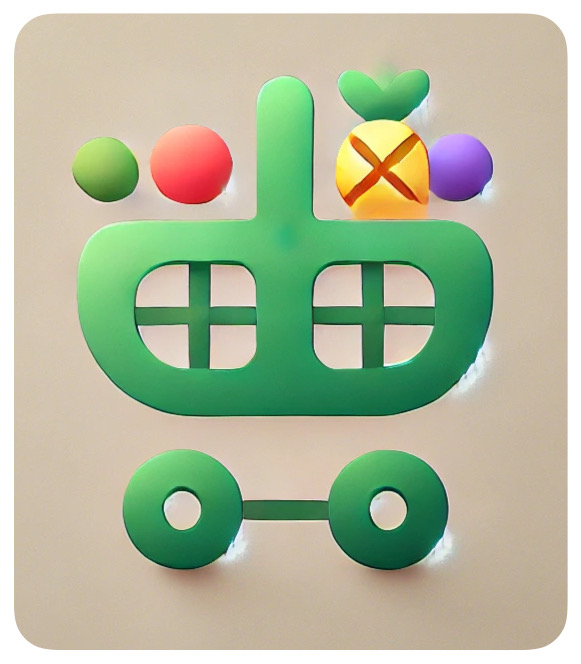
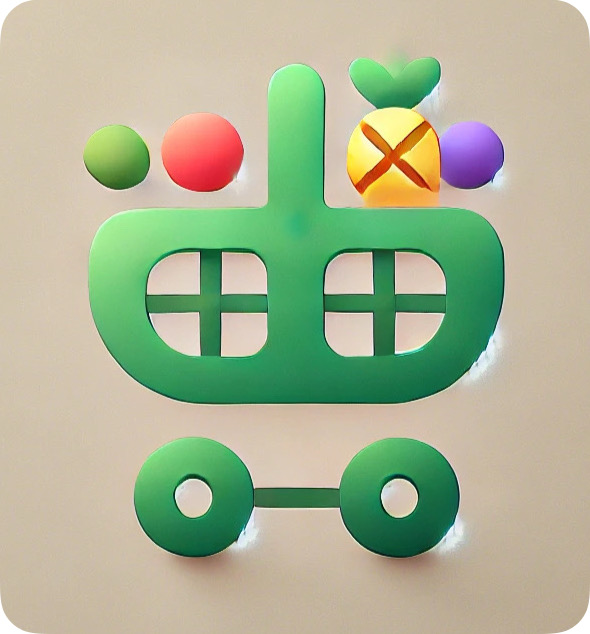
Enhance project grid with hover effects and responsive design
- Refactored grid layout to use CSS Grid for better responsiveness
- Added hover icons and improved text overlay for project items
- Updated project grid styling with smoother transitions and shadows
- Optimized media queries for different screen sizes
- Updated project images with new versions

diff --git a/assets/css/portfolio.css b/assets/css/portfolio.css
@@ -3,85 +3,94 @@
 }
 
 .grid {
-	display: flex;
-	flex-direction: row;
-	flex-wrap: wrap;
-	align-content: flex-start;
-	align-items: center;
-	justify-content: center;
-	max-width: 80%;
-	height: 100%;
+	display: grid;
+	grid-template-columns: repeat(4, 1fr); /* Reduced to 3 columns for larger squares */
+	gap: 1.5rem; /* Reduced gap to allow for bigger items */
+	max-width: 1800px;
 	margin: 0 auto;
-	padding: 30px 0 0;
+	padding: 1.5rem; /* Reduced padding to maximize space */
 	list-style: none;
 }
 
 .grid-item {
-	border-radius: 6%;
-	display: flex;
-	flex-direction: column;
-	flex-grow: 0;
-	flex-shrink: 0;
-	flex-basis: 520px;
-	align-items: center;
-	justify-content: center;
 	position: relative;
-	height: 480px;
-	margin-right: 17.5px;
-	margin-left: 17.5px;
-	margin-bottom: 35px;
-	font-size: 3.5rem;
-	font-weight: 600;
-	color: #ffffff;
-	background: rgb(0, 0, 0);
-	box-shadow: inset 0px 0px 0px 1px #000000;
-	transform: translate(0, 0);
-	transform: translate3d(0, 0, 0);
-	transition: transform 0.14s ease-in, text-shadow 0.1s ease-in;
-	will-change: transform;
+	aspect-ratio: 1;
+	width: 100%;
+	border-radius: 1rem;
+	overflow: hidden;
 	cursor: pointer;
-	line-height: 1.7;
-	padding-left: 0;
+	background-size: cover;
+	background-position: center;
+	transition: all 0.5s cubic-bezier(0.4, 0, 0.2, 1);
+	box-shadow: 0 10px 30px -5px rgba(0, 0, 0, 0.2);
+	backdrop-filter: blur(5px);
+	border: 1.5px solid rgb(136, 136, 136);
 }
 
 .grid-item:before {
 	content: "";
 	position: absolute;
-	top: 0;
-	left: 0;
-	right: 0;
-	bottom: 0;
-	background: none;
-	border-radius: 6%;
-	box-shadow: 0 10px 24px 0px rgba(0, 0, 0, 0.171), 0 8px 20px -2px rgba(0, 0, 0, 0.181), 0 6px 10px -6px rgba(0, 0, 0, 0.22);
-	transition: opacity 0.1s ease-in;
-	will-change: opacity;
-	opacity: 0;
+	inset: 0;
+	background: linear-gradient(
+		to bottom,
+		rgba(0, 0, 0, 0.2),
+		rgba(0, 0, 0, 0.6)
+	);
+	opacity: 0.8;
+	transition: all 0.4s ease;
 }
 
 .grid-item:hover {
-	transform: translate(0, -20px);
-	transform: translate3d(0, -20px, 0);
+	transform: translateY(-10px) scale(1.02);
+	box-shadow: 0 20px 40px -5px rgba(0, 0, 0, 0.3);
 }
 
 .grid-item:hover:before {
-	opacity: 1;
+	opacity: 0.95;
+	background: linear-gradient(
+		to bottom,
+		rgba(0, 0, 0, 0.4),
+		rgba(0, 0, 0, 0.8)
+	);
 }
 
 .text_container {
-	background: #0000006a;
-	padding-left: 3.5rem;
-	padding-right: 3.5rem;
+	position: absolute;
+	bottom: 0;
+	left: 0;
+	right: 0;
+	padding: 2rem;
+	color: white;
+	font-size: 2rem;
+	font-weight: 600;
+	opacity: 0;
+	transform: translateY(20px);
+	transition: all 0.4s ease;
+	text-align: center;
+	background: none;
+	text-shadow: 2px 2px 4px rgba(0, 0, 0, 0.3);
 }
 
-.item2 .text_container {
-	padding-left: 5.9rem;
-	padding-right: 5.9rem;
+.grid-item:hover .text_container {
+	opacity: 1;
+	transform: translateY(0);
 }
 
-.item1 .text_container {
-	padding-left: 3.2rem;
-	padding-right: 3.2rem;
+.grid-item .hover-icon {
+	position: absolute;
+	top: 50%;
+	left: 50%;
+	transform: translate(-50%, -50%) scale(0.8);
+	width: 80px;
+	height: 80px;
+	opacity: 0;
+	transition: all 0.4s ease;
+	z-index: 2;
+}
+
+.grid-item:hover .hover-icon {
+	opacity: 1;
+	transform: translate(-50%, -50%) scale(1);
 }
 
 .grid-item:nth-of-type(1) {
@@ -108,82 +117,83 @@
 	opacity: 1;
 }
 
-@media only screen and (max-width: 1170px) {
+.grid-item:nth-of-type(1) .hover-icon {
+	content: url("images/guexit-logo.svg");
+	width: 80px;
+	height: 80px;
+}
+
+.grid-item:nth-of-type(2) .hover-icon {
+	content: url("images/neural_search_app.JPEG");
+	width: 60px;
+	height: 60px;
+	border-radius: 12px;
+}
+
+.grid-item:nth-of-type(3) .hover-icon {
+	content: url("images/grocery_classifier_app.JPEG");
+	width: 60px;
+	height: 60px;
+	border-radius: 12px;
+}
+
+.grid-item:nth-of-type(4) .hover-icon {
+	content: url("images/marca-tu-ritmo-app.JPEG");
+	width: 60px;
+	height: 60px;
+	border-radius: 12px;
+}
+
+@media only screen and (max-width: 1370px) {
 	.grid {
-		align-content: center;
-		align-items: center;
-		justify-content: center;
+		grid-template-columns: repeat(2, 1fr); /* 2 columns for medium screens */
+		padding: 1.5rem;
+		gap: 1.5rem;
 	}
-
+	
 	.grid-item {
-		font-size: 3rem;
+		aspect-ratio: 1;
 	}
-
+	
 	.text_container {
-		padding-left: 5.35rem;
-		padding-right: 5.35rem;
-	}
-
-	.item2 .text_container {
-		padding-left: 7.3rem;
-		padding-right: 7.3rem;
-	}
-
-	.item1 .text_container {
-		padding-left: 5.1rem;
-		padding-right: 5.1rem;
+		font-size: 1.8rem;
+		padding: 1.5rem;
 	}
 }
 
 @media only screen and (max-width: 590px) {
+	.grid {
+		grid-template-columns: 1fr; /* 1 column for small screens */
+		padding: 1rem;
+		gap: 1.5rem;
+		max-width: 500px; /* Added max-width for single column layout */
+	}
+	
 	.grid-item {
-		flex-basis: 420px;
-		align-items: center;
-		justify-content: center;
-		position: relative;
-		height: 380px;
-		font-size: 2.5rem;
+		aspect-ratio: 1;
 	}
-
+	
 	.text_container {
-		padding-left: 3.85rem;
-		padding-right: 3.85rem;
-	}
-
-	.item2 .text_container {
-		padding-left: 5.8rem;
-		padding-right: 5.8rem;
-	}
-
-	.item1 .text_container {
-		padding-left: 3.8rem;
-		padding-right: 3.8rem;
+		font-size: 1.5rem;
+		padding: 1.2rem;
 	}
 }
 
 @media only screen and (max-width: 452px) {
+	.grid {
+		grid-template-columns: 1fr;
+		padding: 1rem;
+		gap: 1rem;
+		max-width: 400px; /* Adjusted max-width for smaller screens */
+	}
+	
 	.grid-item {
-		flex-basis: 320px;
-		align-items: center;
-		justify-content: center;
-		position: relative;
-		height: 280px;
-		font-size: 2rem;
+		aspect-ratio: 1;
 	}
-
+	
 	.text_container {
-		padding-left: 2.72rem;
-		padding-right: 2.72rem;
-	}
-
-	.item2 .text_container {
-		padding-left: 4.1rem;
-		padding-right: 4.1rem;
-	}
-
-	.item1 .text_container {
-		padding-left: 2.5rem;
-		padding-right: 2.5rem;
+		font-size: 1.3rem;
+		padding: 1rem;
 	}
 }
 

diff --git a/index.html b/index.html
@@ -216,15 +216,19 @@
 	<section id="projects" class="project-container">
 		<ul class="grid">
 			<li class="grid-item item1" onclick="openProjectModal('guexit-modal')">
+				<div class="hover-icon"></div>
 				<div class="text_container">Image Generation</div>
 			</li>
 			<li class="grid-item item2" onclick="openProjectModal('neural-search-modal')">
+				<div class="hover-icon"></div>
 				<div class="text_container">Neural Search</div>
 			</li>
 			<li class="grid-item item3" onclick="openProjectModal('grocery-classifier-modal')">
+				<div class="hover-icon"></div>
 				<div class="text_container">Grocery Classifier</div>
 			</li>
 			<li class="grid-item item4" onclick="openProjectModal('marca-tu-ritmo-modal')">
+				<div class="hover-icon"></div>
 				<div class="text_container">Fitness Tracker</div>
 			</li>
 		</ul>
